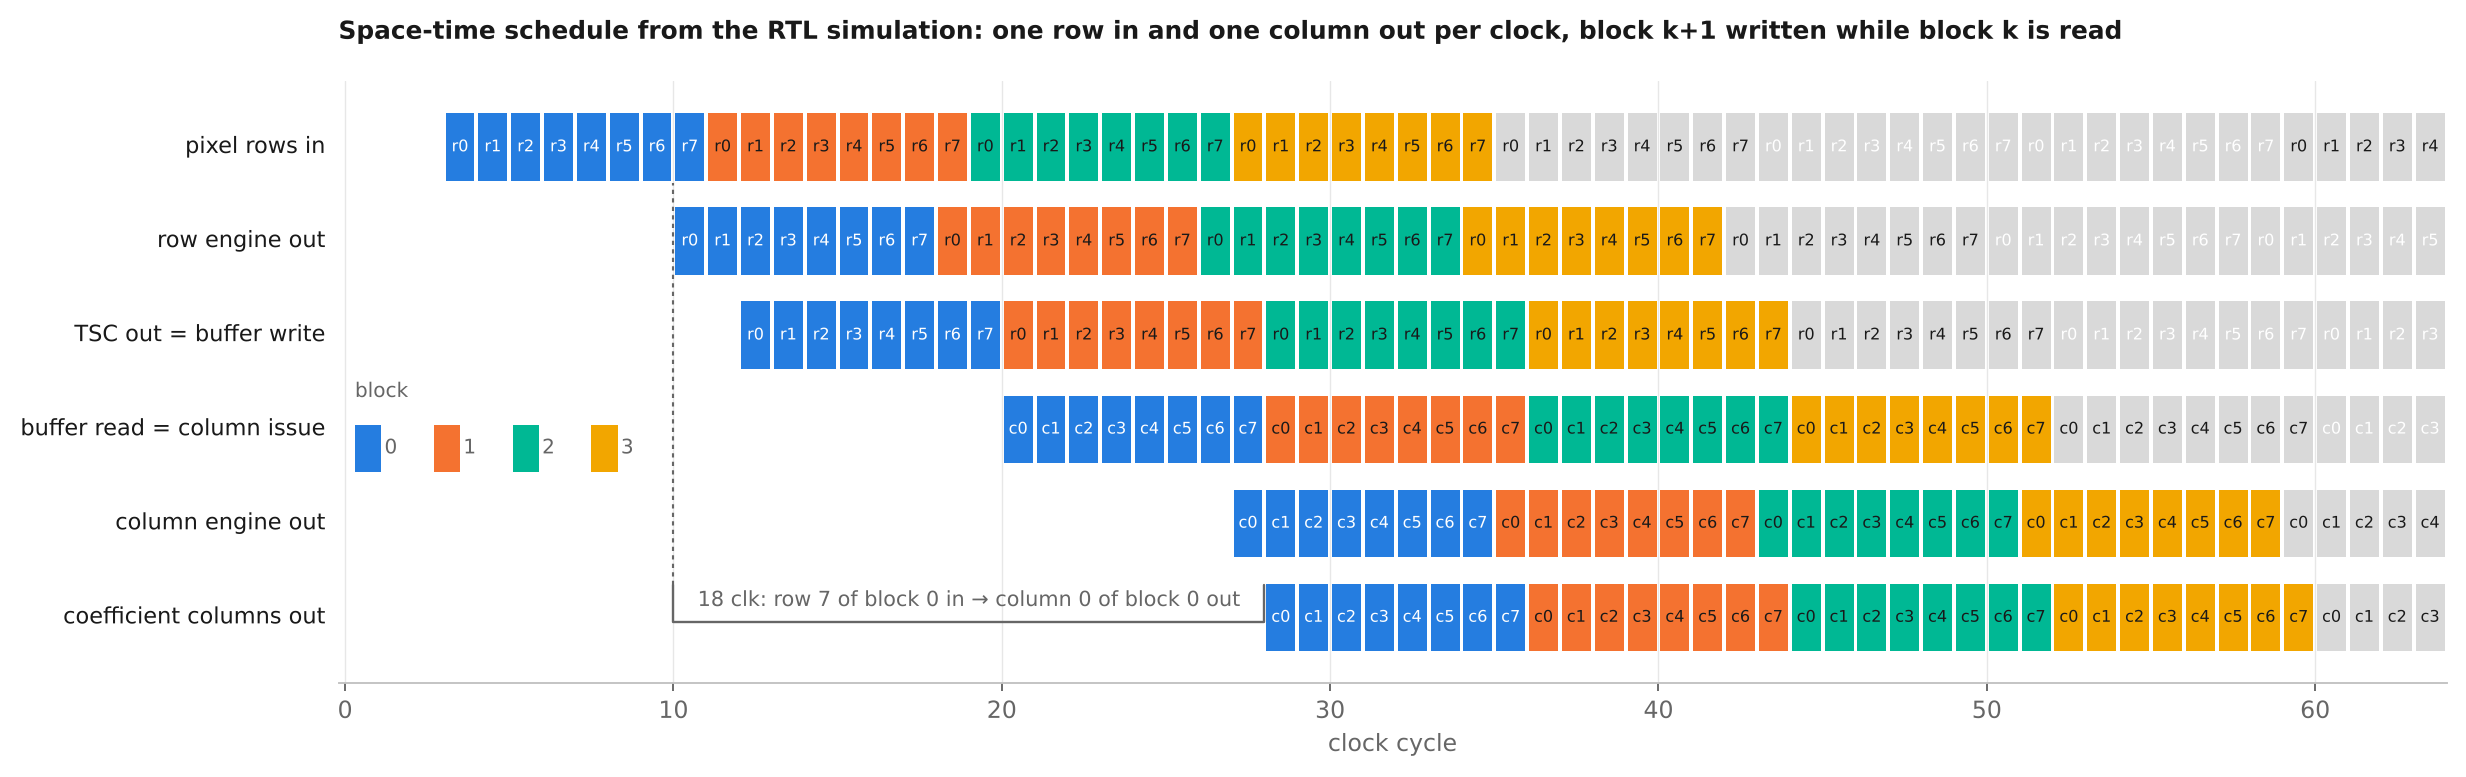
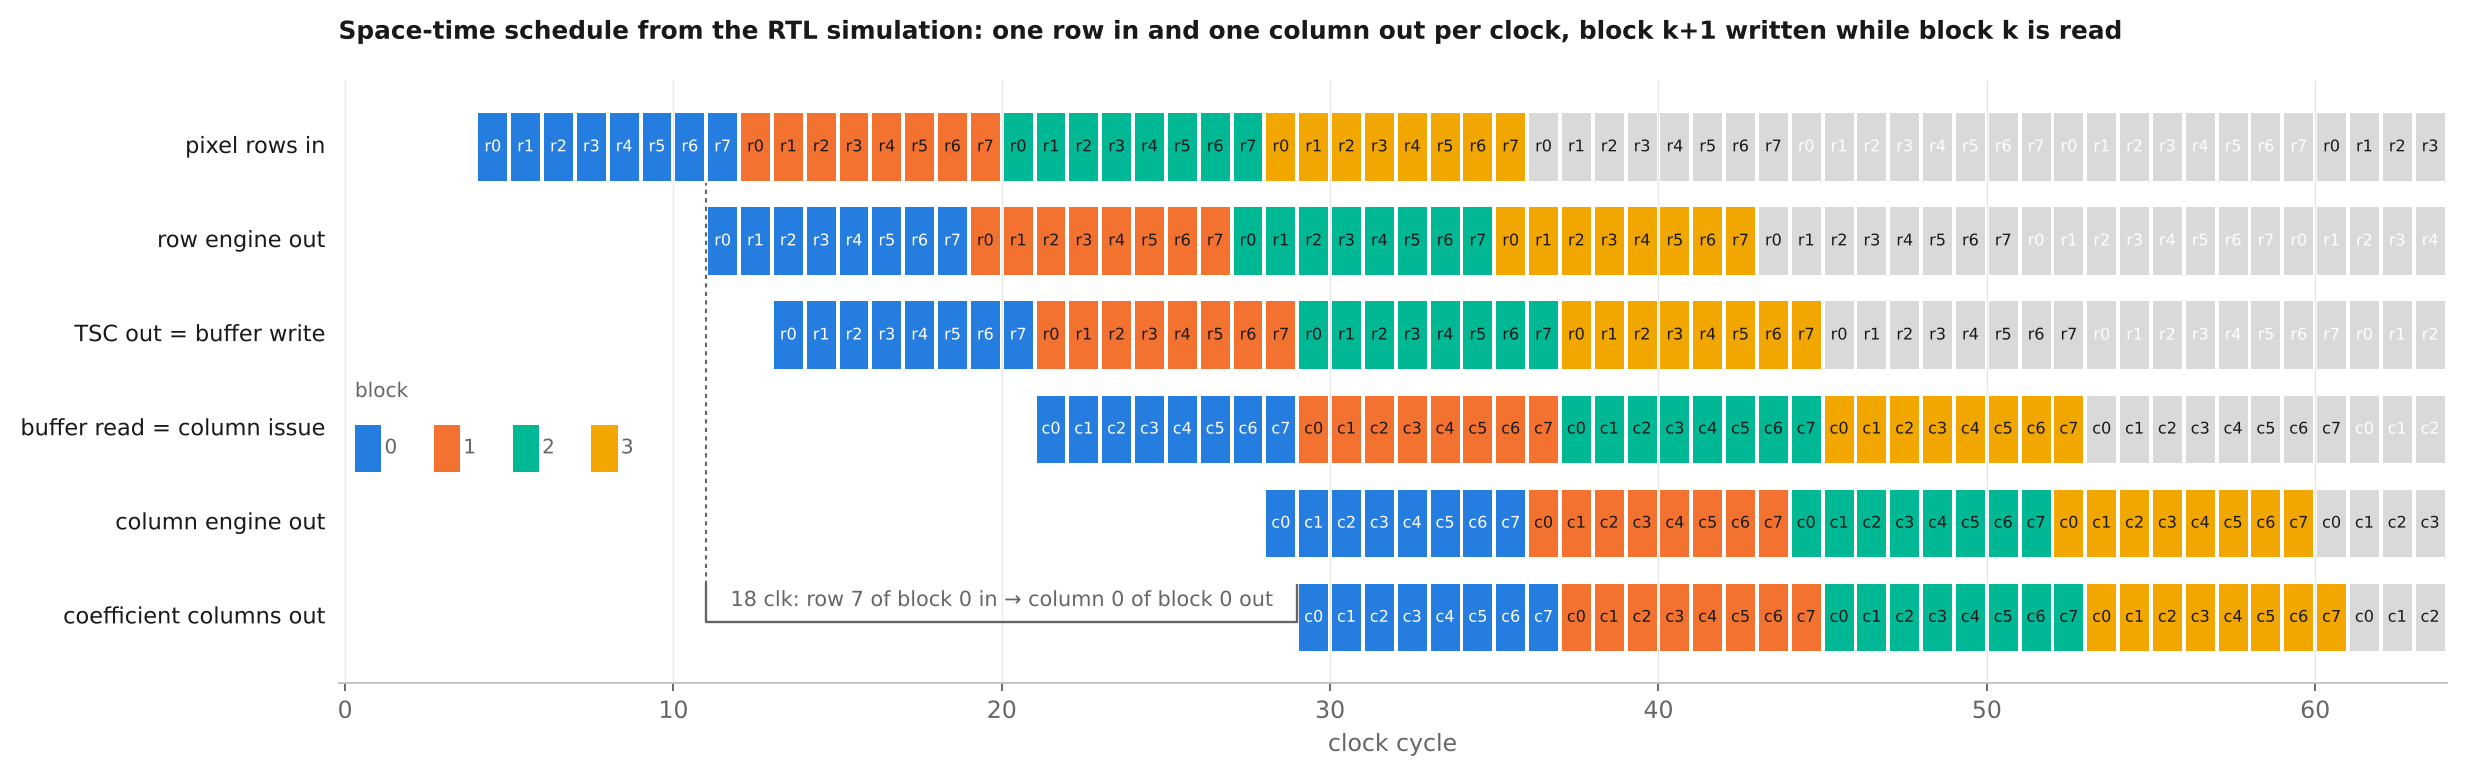
Align waveform figures with the testbench timing; refine accuracy notes

diff --git a/README.md b/README.md
@@ -163,7 +163,7 @@ column 7 starts at once, so the processor accepts a new block every 8 clocks.
 ![RTL waveform](docs/figures/rtl_waveform.png)
 
 The schedule and the waveform are drawn from a VCD of `rtl/tb/tb_dct2d_top.v` with the
-`tsc` vectors. Row 7 of block 0 enters at clock 10 and column 0 of block 0 leaves at clock 28:
+`tsc` vectors. Row 7 of block 0 enters at clock 11 and column 0 of block 0 leaves at clock 29:
 18 clocks of latency, then one column per clock.
 
 | `dct2d_top` | |
@@ -241,14 +241,14 @@ The operation counts come from the Loeffler flow graph in
 already known: operations with a zero operand, a pass-through, x + x (a shift) or a result
 that repeats an earlier value are free, and an approximated block computes only the
 coefficients of its zone. Replaced rows make column inputs equal, which removes mostly
-additions; multiplications vanish only when a rotation input becomes zero. The counts are
+additions; multiplications vanish mainly when a multiplier input becomes zero. The counts are
 the arithmetic a data-aware engine with operand isolation would execute; the pipelined RTL
 runs both engines on every clock and produces the same coefficients either way.
 
 ![TSC behaviour](docs/figures/tsc_behaviour.png)
 
-Smooth regions such as the sky in *camera* and most of *moon* lose most of their rows to
-replacement; textured regions keep theirs (a, b). The cumulative distribution (c) shows the
+Smooth regions lose most of their rows to replacement, on average 4.2 of 7 in the sky of
+*camera*, while its grass keeps nearly all of them (a, b). The cumulative distribution (c) shows the
 share of consecutive row pairs under each threshold: below tmax = 0.010 fall 91 % of the pairs
 of *moon* and 75 % of *brick*, but only 52 % of *camera* and 39 % of *coffee*; 57 % of the
 row pairs of *moon* are identical.

diff --git a/docs/architecture.md b/docs/architecture.md
@@ -46,8 +46,9 @@ Moschytz (ICASSP 1989), 11 multiplications and 29 additions:
 
 Each rotation uses the 3-multiplier form `z = K(xp + xq)`, `yp = z + A·xq`, `yq = z − B·xp`.
 The three products are kept at full precision, and every rotation output is rounded once:
-`yp = (K(xp + xq) + A·xq + 2^12) >>> 13`. The pre-adder, multiplier and post-adder map onto
-one DSP slice (A/D → pre-adder, M register, P register).
+`yp = (K(xp + xq) + A·xq + 2^12) >>> 13`. The shared product has the shape of a DSP slice with
+its pre-adder (A/D → pre-adder → M register), and each output adds its own product in a
+post-adder (P register), so a rotation fits three DSP slices.
 
 | rotation | inputs | K | A | B | constants, CF = 13 |
 |---|---|---|---|---|---|
@@ -84,9 +85,10 @@ RF = 2 and CF = 13:
 | column | −4096 … 4080 (13 bit) | 16 bit (Y0 = −32768 … 32640) | 16 | 31 |
 
 The output `F = round(Z / 32)` lies in −1024 … 1020 and is delivered as 12-bit two's
-complement. Against the floating-point orthonormal DCT the maximum error is 0.73 LSB and
-3.6 % of the coefficients differ from ideal rounding by one
-([`fixed_point_accuracy.png`](figures/fixed_point_accuracy.png)).
+complement. Against the floating-point orthonormal DCT the maximum error is 0.71 LSB over
+6000 random blocks and the blocks of *camera*, where 3.6 % of the coefficients differ from
+ideal rounding by one ([`fixed_point_accuracy.png`](figures/fixed_point_accuracy.png)); on the
+eight sample images it is 0.69–0.76 LSB.
 
 ## 3. TSC unit (`tsc_unit.v`)
 
